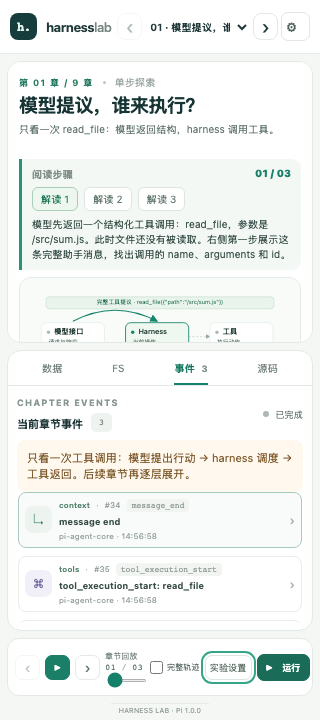
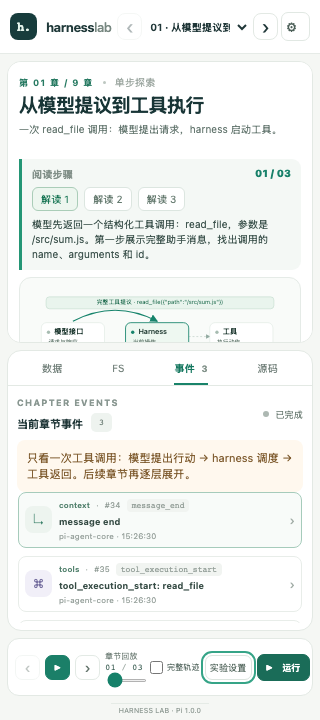
docs: simplify course and interface prose

diff --git a/src/content/chapters.ts b/src/content/chapters.ts
@@ -13,12 +13,12 @@ const raw = "https://raw.githubusercontent.com/earendil-works/pi/a13d35a742c6ef8
 export const chapters: Chapter[] = [
   {
     id: "overview",
-    title: "模型提议，谁来执行？",
-    subtitle: "只看一次 read_file：模型返回结构，harness 调用工具。",
+    title: "从模型提议到工具执行",
+    subtitle: "一次 read_file 调用：模型提出请求，harness 启动工具。",
     body: [
-      "模型先返回一个结构化工具调用：read_file，参数是 /src/sum.js。此时文件还没有被读取。右侧第一步展示这条完整助手消息，找出调用的 name、arguments 和 id。",
-      "harness 收到完整消息后，找到 read_file 实现并检查参数，再调度它执行。右侧第二步是实际工具启动事件，带着同一个 toolCallId。这里开始接触执行环境，模型接口没有直接读取文件。",
-      "工具从本站虚拟 FS 取得文件内容并返回。第三步展示真实返回值，后续章节再解释它如何进入下一轮请求。本章仅有这三步；模型回复由教学 provider 编排，Pi harness 与文件工具实际运行。"
+      "模型先返回一个结构化工具调用：read_file，参数是 /src/sum.js。第一步展示完整助手消息，找出调用的 name、arguments 和 id。",
+      "harness 收到消息后，找到 read_file 实现、检查参数并启动工具。第二步展示实际工具启动事件，其中带有同一个 toolCallId。",
+      "工具从本站虚拟 FS 读取文件并返回内容。第三步展示返回值；后续章节会说明它如何进入下一轮请求。模型回复由教学 provider 编排，Pi harness 与文件工具实际运行。"
     ],
     focus: ["provider", "harness", "tools"],
     checkpoints: ["哪一步只是提出调用，哪一步开始读取文件？", "找出贯穿调用与结果的 toolCallId。", "这次工具读取的是浏览器虚拟 FS 还是用户磁盘？"],
@@ -31,14 +31,14 @@ export const chapters: Chapter[] = [
   {
     id: "context",
     title: "本轮模型看见什么",
-    subtitle: "持有的历史、转换后的上下文、线上请求不是同一个对象。",
+    subtitle: "历史消息经过转换，才成为发送给模型的请求内容。",
     body: [
-      "修复 sum.js 前，harness 可能把 system 指令、用户要求、先前助手消息、工具调用和工具结果都放进 transcript。Pi agent-loop 在每次请求前依次应用 transformContext（可选）、convertToLlm，再 normalizeContext；转换后的消息才交给 StreamFn。自定义 UI 消息可以被过滤或转换。",
-      "工具有两份不同身份：AgentContext.tools 是可执行实现；transcript system message 中的 toolsAdded/toolsRemoved 是对模型声明的工具接口。declareToolChanges 比较二者，在消息历史里记录声明变化。Provider adapter 再把归一化 transcript 序列化为某个 API 的请求格式。因此不要把 session 文件、Agent.state.messages、transform 后的消息、HTTP body 画成同一个共享列表。",
-      "transformContext 只是可配置钩子，代码注释给了裁剪旧消息示例，不代表 agent-core 自带自动裁剪、摘要或 compaction。Pi coding-agent 的会话/上下文策略属于更上层，具体触发和持久化应沿那一层单独核对。"
+      "修复 sum.js 前，harness 可能把 system 指令、用户要求、先前助手消息、工具调用和工具结果放进 transcript。Pi agent-loop 在每次请求前依次运行可选的 transformContext、convertToLlm 和 normalizeContext，再把转换后的消息交给 StreamFn。自定义 UI 消息可以被过滤或转换。",
+      "工具有两种身份：AgentContext.tools 保存可执行实现；transcript system message 中的 toolsAdded/toolsRemoved 记录发给模型的工具接口。declareToolChanges 比较两者，并在消息历史中记录声明变化。Provider adapter 随后把归一化 transcript 序列化为 API 请求。session 文件保存会话记录，Agent.state.messages 保存当前消息，转换步骤生成模型输入，adapter 再生成 HTTP body。",
+      "transformContext 是可配置钩子，代码注释以裁剪旧消息为例。agent-core 没有内置自动裁剪、摘要或 compaction。Pi coding-agent 在更上层实现会话与上下文策略，触发条件和持久化逻辑需检查对应代码。"
     ],
     focus: ["context", "provider", "harness", "session"],
-    checkpoints: ["按顺序说出 transformContext、convertToLlm、provider adapter。", "区分模型可见工具声明与 harness 可执行工具。", "为什么看到 state.messages 不足以证明请求 body 一模一样？"],
+    checkpoints: ["按顺序说出 transformContext、convertToLlm、provider adapter。", "区分模型可见工具声明与 harness 可执行工具。", "state.messages 经过哪些步骤才成为 HTTP body？"],
     sources: [
       { label: "Pi agent-loop.ts：请求边界", url: `${raw}/packages/agent/src/agent-loop.ts` },
       { label: "Pi types.ts：AgentMessage、AgentContext 与钩子契约", url: `${raw}/packages/agent/src/types.ts` },
@@ -48,15 +48,15 @@ export const chapters: Chapter[] = [
   },
   {
     id: "streaming",
-    title: "Streaming：增量数据，不是可执行半成品",
-    subtitle: "provider 字节、协议事件、Pi 事件、完整消息有不同边界。",
+    title: "Streaming：从增量事件到完整消息",
+    subtitle: "响应字节怎样解析成事件，再组成消息。",
     body: [
-      "流式回复先到的是增量。Pi agent-core 的 message_start/message_update/message_end 表达统一后的助手消息生命周期；内部 AssistantMessageEvent 还可区分 text_delta、thinking_delta、toolcall_delta 等。event.partial 是当时的部分消息，不应误当成已校验、可执行的最终调用。",
-      "以修复示例为例：toolCall 的 arguments 在流期间可能尚未收齐 JSON。agent-loop 等 provider 流结束并取得最终助手消息后，才筛选其 toolCall 内容并进入执行路径。Responses adapter 也会累积 function-call 参数，并要求 output_item.done 完成；若终止事件到达时调用仍有未完成缓冲，它报错而不把半截调用交给 harness。",
-      "协议帧边界不是网络 packet，也不保证一帧对应一个模型 token。展示 fetch 可读块、SSE event/data 和 Pi 归一化事件时，分层标注来源。截断（stopReason=length）尤其危险：本版本会把该助手消息中的工具调用全部变成错误结果，不执行可能不完整的参数。"
+      "流式回复以增量到达。Pi agent-core 的 message_start/message_update/message_end 表达统一后的助手消息生命周期；AssistantMessageEvent 还区分 text_delta、thinking_delta、toolcall_delta 等事件。event.partial 表示当前部分消息，最终调用要等消息完成并经过后续处理。",
+      "修复示例中的 toolCall arguments 可能还没收齐 JSON。agent-loop 等 provider 流结束、取得最终助手消息后，才筛选 toolCall 并进入执行路径。Responses adapter 会累积 function-call 参数，并等待 output_item.done；终止事件到达时若调用仍有未完成缓冲，adapter 会报错。",
+      "SSE 帧按 event/data 格式划分，fetch 每次读取的片段可能包含部分或多个帧。帧数与模型 token 数量没有固定对应关系，图中分别展示读取片段、协议事件和 Pi 事件。若 stopReason=length，本版本会把该助手消息中的工具调用转成错误结果，不执行可能不完整的参数。"
     ],
     focus: ["provider", "parser", "harness", "tools"],
-    checkpoints: ["区分原始 provider stream event 与 Pi AssistantMessageEvent。", "为什么不可收到一段看似合法的 JSON 就直接执行？", "Pi 收到 length 且消息含工具调用时如何处理？"],
+    checkpoints: ["区分原始 provider stream event 与 Pi AssistantMessageEvent。", "工具调用执行前还要完成哪些步骤？", "Pi 收到 length 且消息含工具调用时如何处理？"],
     sources: [
       { label: "Pi types.ts：统一事件和消息类型", url: `${raw}/packages/ai/src/types.ts` },
       { label: "Pi agent-loop.ts：增量事件归并与 length 分支", url: `${raw}/packages/agent/src/agent-loop.ts` },
@@ -68,11 +68,11 @@ export const chapters: Chapter[] = [
   {
     id: "tools",
     title: "Tool lifecycle：请求、校验、执行、回填",
-    subtitle: "工具调用是一条带身份和检查点的控制流，不是一段代码文本。",
+    subtitle: "工具调用沿着校验、执行和回填的控制流运行。",
     body: [
-      "助手消息中的工具调用带 id、name、arguments。Pi 根据 name 查找当前可执行工具，找不到就生成 error tool result；找到后可先 prepareArguments，再按工具 schema 验证，随后调用 beforeToolCall。被阻止、参数无效、工具抛错都形成错误结果，而不是把无效调用默默当成功。",
-      "执行接口收到 toolCallId、已验证参数、AbortSignal 和可选进度回调。afterToolCall 可以改写结果；最终 tool_execution_end 是 UI/观察事件，toolResult message 才是回填到 transcript 的模型输入，带 toolCallId/toolName/content/isError。结构化 details 供 UI 或程序使用，不等价于发给模型的 content。",
-      "sum.js 场景的 edit 工具究竟改了哪个文件、如何落盘，是执行环境适配器负责的事实。Pi coding-agent 的 edit.ts 使用文件操作、路径解析和变更队列；本站可能采用隔离的虚拟 FS，不能把它描述成上游 core 或真实 OS 文件操作。权限策略也应显示为实际接入的 hook/扩展，而非模型自动拥有或自动拒绝的能力。"
+      "助手消息中的工具调用带有 id、name 和 arguments。Pi 根据 name 查找当前可执行工具；找不到时生成 error tool result。找到后可先运行 prepareArguments，再按工具 schema 验证，随后调用 beforeToolCall。拦截、参数无效或工具抛错都会形成错误结果。",
+      "执行接口收到 toolCallId、已验证参数、AbortSignal 和可选进度回调。afterToolCall 可以改写结果；最终 tool_execution_end 是 UI/观察事件，toolResult message 才是回填到 transcript 的模型输入，带 toolCallId/toolName/content/isError。模型读取 content，UI 和程序还可以使用 details 中的结构化数据。",
+      "本站的 write_file 工具通过已实现的虚拟 FS 修改 sum.js。Pi coding-agent 的 edit.ts 则使用文件操作、路径解析和变更队列。权限策略由接入的 hook 或扩展实现。"
     ],
     focus: ["tools", "harness", "workspace"],
     checkpoints: ["列出工具从模型提议到回填 transcript 的阶段。", "tool_execution_end 和 toolResult message 分别服务谁？", "无效参数是否会触达工具 execute？"],
@@ -86,11 +86,11 @@ export const chapters: Chapter[] = [
   {
     id: "loop",
     title: "循环、并发与何时结束",
-    subtitle: "一次助手回答是 turn；agent run 可以包含多轮。",
+    subtitle: "一次助手回答构成一个 turn；一次 agent run 可以包含多轮。",
     body: [
-      "runLoop 的内层流程在有工具调用或待注入 steering message 时继续。每个正常 provider 回答会成为助手消息；若工具批次没有要求终止，tool result 被追加后会开启下一次请求。无工具且无 steering 时会检查 follow-up；finishTurn 可结束，也可要求一次后续 continuation。error/aborted 是硬退出分支。",
-      "Pi 默认工具批次并行，但每个调用的参数准备与 beforeToolCall 先按助手原始顺序完成；可执行的任务随后并发。tool_execution_end 按执行完成先后发出，tool result message 按助手消息中的工具调用顺序生成。顺序模式则逐一准备、执行、收尾。不要把屏幕上事件到达顺序误画成结果消息顺序。",
-      "steering 在当前助手 turn 的工具执行之后注入，不会跳过该助手已经请求的工具；follow-up 在 agent 原本将停止时处理。Agent 持有队列、AbortController 和运行态，abort 是取消信号，不承诺撤销已完成的文件写入或外部副作用。本站的时间轴回退应恢复教学快照，不声称撤消真实操作。"
+      "runLoop 的内层流程会在存在工具调用或待注入 steering message 时继续。每个正常 provider 回答都会成为助手消息；工具批次完成且未要求终止时，系统追加 tool result 并发起下一次请求。没有工具调用和 steering message 时，流程检查 follow-up；finishTurn 可以结束 turn，也可以要求一次 continuation。error/aborted 会直接退出。",
+      "Pi 默认并行执行工具批次。每个调用的参数准备和 beforeToolCall 按助手消息中的顺序完成，之后并发执行。tool_execution_end 按完成先后发出，tool result message 则按工具调用原顺序生成。顺序模式会逐个完成准备、执行和收尾。",
+      "steering message 在当前助手 turn 的工具执行后注入；follow-up 在 agent 原本将停止时处理。Agent 持有队列、AbortController 和运行态。abort 会发送取消信号，但已完成的文件写入和外部副作用不会因此自动撤销。本站时间轴回退展示当时的文件快照，运行后的工作区保持原状态。"
     ],
     focus: ["harness", "tools", "user", "provider"],
     checkpoints: ["并行任务的结束事件顺序和模型看到结果的顺序有何区别？", "steering 与 follow-up 在何时注入？", "取消后能否假定已经写入的文件会回滚？"],
@@ -102,15 +102,15 @@ export const chapters: Chapter[] = [
   },
   {
     id: "workspace-session",
-    title: "工作空间与 session：运行环境不等于对话",
-    subtitle: "文件系统、进程和可恢复的 session 是不同资源。",
+    title: "工作空间与 session：文件和消息状态",
+    subtitle: "文件系统、进程和 session 各自保存不同状态。",
     body: [
-      "read sum.js 得到的内容是一次工具结果；编辑后的 sum.js 是执行环境状态；用户/助手/工具消息组成对话上下文。三者有关联但不共享同一生命周期。重置可视化状态不会自动逆转已发生的文件写入。",
-      "固定 Pi revision 的 agent-core 定义 AgentMessage、工具调用和内存态 Agent；其核心循环没有内建 OS workspace 或持久 session manager。上层 coding-agent 才定义 read/edit/bash 等工具，并在 SessionManager 中把 session entries 追加为 JSONL、按父子 ID 形成分支、投影成会话上下文。恢复 session 的消息历史不等于恢复当时进程、外部服务或文件系统快照。",
-      "本站的浏览器虚拟 FS、测试 Worker，以及学习进度保存属于教学实现，不是 Pi 上游行为。若课程模拟“恢复”，应说明保存了哪些对象以及哪些状态未保存；运行任意用户代码也不能仅凭‘在 Worker 里’就宣称是通用安全沙箱。"
+      "read sum.js 的内容是工具结果；编辑后的 sum.js 属于执行环境状态；用户、助手和工具消息组成对话上下文。它们通过工具调用关联，各自有独立生命周期。重置可视化状态不会逆转已经写入的文件。",
+      "固定 Pi revision 的 agent-core 定义 AgentMessage、工具调用和内存态 Agent，核心循环不含 OS workspace 或持久 session manager。上层 coding-agent 定义 read/edit/bash 等工具，并由 SessionManager 将 session entries 追加为 JSONL、按父子 ID 建立分支，再投影成会话上下文。恢复消息历史不会同时恢复进程、外部服务或文件系统快照。",
+      "本站保存课程位置、prompt、虚拟文件与非密钥设置，恢复时读取这些数据。运行事件需另行导出。测试 Worker 解析受限算术函数，不执行任意用户程序。"
     ],
     focus: ["workspace", "session", "tools", "context"],
-    checkpoints: ["分别指出消息历史、文件内容和进程状态由谁持有。", "JSONL session 能证明磁盘文件已回滚吗？", "哪些浏览器适配属于本站而非上游 Pi？"],
+    checkpoints: ["分别指出消息历史、文件内容和进程状态由谁持有。", "恢复 JSONL session 会恢复哪些状态？", "哪些浏览器适配属于本站，哪些来自上游 Pi？"],
     sources: [
       { label: "Pi agent-core types.ts：AgentContext / AgentState", url: `${raw}/packages/agent/src/types.ts` },
       { label: "Pi coding-agent session-manager.ts：JSONL 条目与上下文投影", url: `${raw}/packages/coding-agent/src/core/session-manager.ts` },
@@ -120,14 +120,14 @@ export const chapters: Chapter[] = [
   {
     id: "context-management",
     title: "Context management：保留、裁剪或摘要都有代价",
-    subtitle: "有 hook 不代表有内置压缩；摘要也不是无损历史。",
+    subtitle: "agent-core 提供转换 hook；coding-agent 实现 compaction。",
     body: [
-      "模型上下文是每次请求前选择、转换并序列化的输入，不必等于完整 session。transformContext 是 agent-core 的可选转换 hook；convertToLlm 还负责过滤/映射消息。代码提供了实现方裁剪历史的扩展点，却不证明 core 会监控 token 阈值或自行生成摘要。",
-      "Pi coding-agent 有独立的 compaction 实现：根据 token 使用估算与配置阈值准备截断点，避开孤立的工具结果，再生成摘要并保留一段近期历史；SessionManager 记录 compaction 边界。这会压缩细节并改变后续模型看到的历史。它属于 coding-agent 的功能，不能倒推为 agent-core 默认行为。",
-      "sum.js 实验可对照“完整工具轨迹”与“只留文件结论/测试摘要”的上下文，标出被删去的失败信息和调用参数。课程演示的 token 计数若用启发式应注明估算；模型报告 usage 才是 provider 返回的用量，二者不可混写。"
+      "模型上下文是在每次请求前选择、转换并序列化的输入。transformContext 是 agent-core 的可选转换 hook；convertToLlm 负责过滤和映射消息。实现方可以通过这些扩展点裁剪历史，agent-core 本身不监控 token 阈值，也不自动生成摘要。",
+      "Pi coding-agent 单独实现了 compaction：它根据 token 使用估算和配置阈值选择截断点，避开孤立的工具结果，生成摘要并保留一段近期历史；SessionManager 记录 compaction 边界。压缩会删减细节，改变后续模型看到的历史。这是 coding-agent 的功能。",
+      "当前实验对照工具结果回填前后的两份请求，观察增加的消息、参数和结果。compaction 的摘要与近期历史如何组合，可查看本章源码。启发式 token 计数应标为估算，usage 表示 provider 返回的用量。"
     ],
     focus: ["context", "session", "harness", "provider"],
-    checkpoints: ["transformContext 存在能证明哪些事，不能证明哪些事？", "为什么压缩需要保留工具调用与结果的关联？", "区分 token 估算、上次 usage 与 provider 当前返回 usage。"],
+    checkpoints: ["transformContext 能做什么？哪些行为需检查其他代码？", "为什么压缩需要保留工具调用与结果的关联？", "区分 token 估算、上次 usage 与 provider 当前返回 usage。"],
     sources: [
       { label: "Pi agent-core types.ts：transformContext 契约", url: `${raw}/packages/agent/src/types.ts` },
       { label: "Pi coding-agent compaction.ts：压缩策略与估算", url: `${raw}/packages/coding-agent/src/core/compaction/compaction.ts` },
@@ -137,12 +137,12 @@ export const chapters: Chapter[] = [
   },
   {
     id: "failures",
-    title: "失败分支：把错误送回正确的边界",
-    subtitle: "错误、截断、取消和权限阻止不是一种状态。",
+    title: "失败分支：参数、工具与接口错误",
+    subtitle: "错误、截断、取消和权限拦截走不同分支。",
     body: [
-      "让测试暴露 sum.js 的加减法错误后，模型可能返回无效参数、未知工具、工具运行失败或错误的修复。Pi 在参数验证前不会调用 execute；验证、beforeToolCall 或执行抛错会转成 isError tool result，通常仍可作为下一轮上下文，让模型据此调整。工具拒绝策略来自已配置的 hook/工具，而非通用 harness 自动生成的权限体系。",
-      "provider 的 stopReason=error 或 aborted 会使主循环结束；length 表示达到输出限制。此固定版本在 length 回复里即便解析出 toolCall，也会对调用生成失败结果、不执行它们，因为看似完整的参数也可能来自被截断的 JSON。解析错误与业务测试失败应分开标识。",
-      "并行批次中某一调用失败不会自动代表其他副作用已经撤销；停止信号也只影响尊重 signal 的执行路径。浏览器 CORS/网络错误、HTTP 错误响应和 provider SSE 中的失败事件属于不同层级。故障注入和重试轨迹若由本站编排，标为教学情景，并避免伪装成实际 API 请求。"
+      "测试暴露 sum.js 的加减法错误后，模型可能返回无效参数、未知工具、运行失败或错误修复。Pi 先验证参数，再调用 execute；验证、beforeToolCall 或执行抛错都会转成 isError tool result，通常会进入下一轮上下文供模型调整。工具拒绝策略由已配置的 hook 或工具实现。",
+      "provider 返回 stopReason=error 或 aborted 时，主循环结束；length 表示达到输出限制。此固定版本遇到 length 时，会为消息中的 toolCall 生成失败结果并跳过执行，因为参数可能是截断的 JSON。解析错误和业务测试失败应分别标识。",
+      "并行批次中，一个调用失败不会撤销其他调用已产生的副作用；停止信号只影响遵守 signal 的执行路径。浏览器 CORS/网络错误、HTTP 错误响应和 provider SSE 失败事件属于不同层级。本站编排的故障注入和重试轨迹应标为教学情景。"
     ],
     focus: ["harness", "parser", "tools", "provider"],
     checkpoints: ["坏参数在哪里拒绝？工具抛错如何回到对话？", "stopReason=length 时为什么不执行已出现的 tool call？", "哪些失败可以从 API 响应看到，哪些只能看到浏览器网络错误？"],
@@ -155,16 +155,16 @@ export const chapters: Chapter[] = [
   },
   {
     id: "api-lab",
-    title: "API 实验室：协议不同，语义映射也不同",
-    subtitle: "Chat Completions 与 Responses 不是只差一个 URL。",
+    title: "API 实验室：两种请求和响应格式",
+    subtitle: "Chat Completions 与 Responses 使用不同的请求和事件结构。",
     body: [
       "Pi 内部先把上下文整理成统一 transcript；adapter 再转换成各 API 的 wire format。Chat Completions 通常向 POST /chat/completions 发送 messages 数组，工具声明位于 tools；助手工具调用在 assistant.tool_calls 中，参数是 JSON 字符串。工具结果以 role=tool 的消息回传，并用 tool_call_id 对应调用。非流式返回是 completion 的 choices/message；流式则是带 choices[].delta 的 chat.completion.chunk，常以 data: [DONE] 结束。",
-      "Responses 向 POST /responses 发送 input（字符串或 items/messages），工具声明也放 tools，但调用输出是 function_call item，使用 call_id、name、arguments；工具结果是 function_call_output item，以 call_id 关联。非流式主体含 response id/status/output items；流式使用有类型的事件，如 response.created、response.output_item.added、response.function_call_arguments.delta、response.output_item.done、response.completed。不要把它压平成 Chat Completions 的 delta/message 结构。",
-      "两种协议都可能支持 streaming 和工具调用，但字段、结果归属、终止标记、增量事件不同。Pi 的两个 adapter 都做消息/工具转换并把 provider 事件归一化成 AssistantMessageEvent。官方文档描述的是服务端协议；本站模拟 transport 若直接返回预编排 Response 或 SSE，仅展示 adapter 的解析与 harness 行为，必须注明没有远程 HTTP 调用。",
-      "教学 API trace 应依次可检查：归一化 transcript → adapter request body → Response status/headers → 原始可读字节/SSE event → JSON/event parser → Pi 统一事件 → 最终消息与工具调用 ID → 工具结果回填 → 下一请求。浏览器可见的读取块不是网络 packet；API key、TLS 内部和未公开推理不属于可观察数据。实时 BYOK 应由用户主动发起；本章引用文档而不发送收费请求。"
+      "Responses 向 POST /responses 发送 input（字符串或 items/messages），工具声明也放在 tools。调用以 function_call item 输出，包含 call_id、name、arguments；工具结果是通过 call_id 关联的 function_call_output item。非流式主体含 response id/status/output items；流式使用有类型的事件，如 response.created、response.output_item.added、response.function_call_arguments.delta、response.output_item.done、response.completed。",
+      "两种协议都支持 streaming 和工具调用，但字段、结果归属、终止标记和增量事件各不相同。Pi 的两个 adapter 转换消息与工具，并将 provider 事件归一化为 AssistantMessageEvent。官方文档描述服务端协议；本站模拟 transport 直接返回预编排 Response 或 SSE，用来展示 adapter 解析和 harness 行为，不会发起远程 HTTP 调用。",
+      "教学 API trace 可依次检查：归一化 transcript → adapter request body → Response status/headers → 原始可读字节/SSE event → JSON/event parser → Pi 统一事件 → 最终消息与工具调用 ID → 工具结果回填 → 下一请求。trace 记录浏览器可读的响应片段和解析结果，API key 始终隐藏；TLS 内部和未公开的模型推理无法获取。实时 BYOK 由用户主动发起；本章只引用文档，不发送收费请求。"
     ],
     focus: ["provider", "parser", "context", "tools", "harness"],
-    checkpoints: ["两种协议分别在哪里携带工具结果？关联键是什么？", "Chat stream chunk 与 Responses SSE event 在结构上有什么不同？", "本地模拟 Response 能否证明访问过 OpenAI？为什么？"],
+    checkpoints: ["两种协议分别在哪里携带工具结果？关联键是什么？", "Chat stream chunk 与 Responses SSE event 在结构上有什么不同？", "沿请求记录判断当前使用的是本地模拟还是远程 provider。"],
     sources: [
       { label: "Pi OpenAI Completions adapter", url: `${raw}/packages/ai/src/api/openai-completions.ts` },
       { label: "Pi OpenAI Responses adapter", url: `${raw}/packages/ai/src/api/openai-responses.ts` },

diff --git a/src/App.svelte b/src/App.svelte
@@ -197,16 +197,16 @@
     {#if showExercise}<div class="modal-scrim" role="presentation" onclick={(event)=>{if(event.target===event.currentTarget)showExercise=false;}}><div class="exercise-modal" role="dialog" tabindex="-1" aria-modal="true" aria-labelledby="exercise-title"><div class="exercise-head"><div><span class="eyebrow">EXPERIMENT</span><h2 id="exercise-title">实验设置</h2></div><button class="close-button" onclick={()=>showExercise=false} aria-label="关闭">×</button></div><label class="field-label" for="prompt">用户消息</label><textarea id="prompt" class="prompt-input" bind:value={prompt} rows="3"></textarea>{#if demoFixtureNote}<div class="fixture-note"><b>教学夹具与输入不匹配</b><span>本地 provider 仅支持预设任务；自由探索请切换自己的 API。</span></div>{/if}<div class="file-edit-head"><span>初始文件 <code>/src/sum.js</code></span><span>虚拟工作区 · 可编辑</span></div><textarea class="code-editor" aria-label="编辑初始 sum.js" bind:value={fileEdit} spellcheck="false"></textarea><div class="exercise-actions"><button class="secondary-button" onclick={saveWorkspace}>保存工作区</button><button class="secondary-button" onclick={restoreWorkspace}>恢复工作区</button><button class="primary-button" onclick={()=>{showExercise=false;start();}} disabled={status==='running'}>运行实验</button></div>{#if savedNotice}<p class="saved-notice">{savedNotice}</p>{/if}</div></div>{/if}
   {:else}
     <main class="settings-page">
-      <div class="settings-intro"><span class="eyebrow">WORKSPACE PREFERENCES</span><h1>运行设置<span>与 API</span></h1><p>配置实验运行方式。密钥默认只驻留在当前页面内存中，不会自动保存或发送。</p></div>
-      <div class="settings-grid"><section class="settings-card"><div class="setting-title"><span class="setting-index">01</span><div><h2>运行模式</h2><p>选择教学模拟或连接兼容 API。</p></div></div><label class="setting-label">运行模式<select data-testid="mode-select" bind:value={settings.mode}><option value="demo">本地模拟 · 仅用本地教学夹具</option><option value="live">真实 API · 确认后发送请求</option></select></label><label class="setting-label">故障情景<select data-testid="scenario-select" bind:value={settings.scenario}><option value="repair">正常修复</option><option value="invalid-args">无效工具参数</option><option value="provider-error">Provider 错误</option><option value="failed-test">测试未通过</option></select></label><label class="setting-label">工具调度<select bind:value={settings.toolExecution}><option value="sequential">顺序执行</option><option value="parallel">并行执行</option></select></label><label class="setting-label">事件延迟 <span>{settings.delayMs} ms</span><input type="range" min="0" max="1800" step="100" bind:value={settings.delayMs} /></label></section>
+      <div class="settings-intro"><span class="eyebrow">WORKSPACE PREFERENCES</span><h1>运行设置<span>与 API</span></h1><p>填写模型接口。密钥默认保存在当前页面内存中。</p></div>
+      <div class="settings-grid"><section class="settings-card"><div class="setting-title"><span class="setting-index">01</span><div><h2>运行模式</h2><p>选择教学模拟或连接兼容 API。</p></div></div><label class="setting-label">运行模式<select data-testid="mode-select" bind:value={settings.mode}><option value="demo">本地模拟 · 预设教学场景</option><option value="live">真实 API · 确认后发送请求</option></select></label><label class="setting-label">故障情景<select data-testid="scenario-select" bind:value={settings.scenario}><option value="repair">正常修复</option><option value="invalid-args">无效工具参数</option><option value="provider-error">Provider 错误</option><option value="failed-test">测试未通过</option></select></label><label class="setting-label">工具调度<select bind:value={settings.toolExecution}><option value="sequential">顺序执行</option><option value="parallel">并行执行</option></select></label><label class="setting-label">事件延迟 <span>{settings.delayMs} ms</span><input type="range" min="0" max="1800" step="100" bind:value={settings.delayMs} /></label></section>
       <section class="settings-card"><div class="setting-title"><span class="setting-index">02</span><div><h2>Provider / API</h2><p>兼容 OpenAI 风格接口的服务地址。</p></div></div><div class="field-row"><label class="setting-label">协议<select data-testid="protocol-select" bind:value={settings.protocol}><option value="chat">Chat Completions</option><option value="responses">Responses</option></select></label><label class="setting-label">模型<input bind:value={settings.model} placeholder="模型 ID" /></label></div><label class="setting-label">Base URL<input bind:value={settings.baseUrl} placeholder="https://api.openai.com/v1" /></label><label class="setting-label">API Key <span>默认仅内存</span><input type="password" bind:value={settings.apiKey} autocomplete="off" placeholder="sk-••••••••••••" /></label><div class="key-actions"><button class="secondary-button" onclick={rememberKey} disabled={!settings.apiKey}>记住密钥</button><button class="text-button" onclick={clearKey}>清除密钥</button><span>浏览器本地存储并非加密保险库。</span></div><div class="endpoint-box"><span>最终请求端点</span><code>{endpoint}</code><span class="endpoint-method">POST</span></div>{#if settings.mode==='live'}<div class="warning-box"><b>发送前请确认</b><span>真实模式不会自动请求。你每次点击运行后都会再次看到数据与费用提示。提示：API key 将用于授权，请只连接你信任的服务。</span></div>{/if}</section>
       <section class="settings-card scenario-card api-explorer"><div class="setting-title"><span class="setting-index">04</span><div><h2>API 实验室</h2><p>单次请求看懂接口格式；完整 agent 运行使用 Pi 流式 adapter。</p></div></div><label class="setting-label">响应方式<select data-testid="api-stream-select" bind:value={apiStreaming}><option value={true}>流式 SSE</option><option value={false}>非流式 JSON</option></select></label><p class="privacy-foot">Chat Completions 使用 messages 和嵌套 function 工具；Responses 使用 input 和顶层 function 字段。此实验只观察 API 响应，不执行工具。模拟用量与延迟为教学设定。</p><details open><summary>实际将发送的请求体</summary><pre class="api-code">{apiPreview}</pre></details><div class="settings-actions"><button data-testid="api-test-button" class="primary-button" onclick={startApiTest} disabled={status==='running'}>测试单次 API</button>{#if status==='running'}<button class="secondary-button" onclick={cancel}>停止</button>{/if}<button class="secondary-button" onclick={()=>page='learn'}>在时间轴查看响应</button></div>{#if apiOutcome}<p class="saved-notice">{apiOutcome}</p>{/if}</section>
-      <section class="settings-card scenario-card"><div class="setting-title"><span class="setting-index">03</span><div><h2>工作区与导出</h2><p>工作区内容仅保存在本机浏览器；不等同于可恢复的运行计划。</p></div></div><div class="storage-note"><span class="storage-icon">▤</span><div><b>本地浏览器存储</b><p>保存课程位置、prompt、虚拟文件与非密钥设置。运行事件不会作为工作区自动保存。</p></div></div><div class="settings-actions"><button class="secondary-button" onclick={saveWorkspace}>保存工作区</button><button class="secondary-button" onclick={restoreWorkspace}>恢复工作区</button><button class="text-button" onclick={exportTrace} disabled={!events.length}>导出 trace</button><button class="text-button" onclick={exportFiles}>导出本地文件</button></div>{#if savedNotice}<div class="saved-notice">✓ {savedNotice}</div>{/if}<p class="privacy-foot">trace 导出包含当前实际运行事件，不含设置或 API key。文件内容只有在点击“导出本地文件”时才会导出。</p></section></div>
+      <section class="settings-card scenario-card"><div class="setting-title"><span class="setting-index">03</span><div><h2>工作区与导出</h2><p>工作区保存在此浏览器，包含实验输入、文件和课程位置。</p></div></div><div class="storage-note"><span class="storage-icon">▤</span><div><b>本地浏览器存储</b><p>保存课程位置、prompt、虚拟文件和非密钥设置。运行记录请另行导出 trace。</p></div></div><div class="settings-actions"><button class="secondary-button" onclick={saveWorkspace}>保存工作区</button><button class="secondary-button" onclick={restoreWorkspace}>恢复工作区</button><button class="text-button" onclick={exportTrace} disabled={!events.length}>导出 trace</button><button class="text-button" onclick={exportFiles}>导出本地文件</button></div>{#if savedNotice}<div class="saved-notice">✓ {savedNotice}</div>{/if}<p class="privacy-foot">trace 导出包含当前实际运行事件，不含设置或 API key。点击“导出本地文件”可下载所选时刻的文件快照。</p></section></div>
     </main>
   {/if}
 
   {#if showConfirm}<div class="modal-scrim" role="presentation"><div class="confirm-modal" role="dialog" aria-modal="true" aria-labelledby="confirm-title" tabindex="-1"><div class="confirm-icon">!</div><span class="eyebrow">REAL PROVIDER REQUEST</span><h2 id="confirm-title">确认发送 API 请求？</h2><p>请求将发送到以下端点。prompt 与虚拟工作区文件可能包含在请求上下文中。真实 API 可能产生费用。</p><div class="confirm-endpoint"><span>POST</span><code>{endpoint}</code></div><div class="confirm-model"><span>模型</span><b>{settings.model || '未设置'}</b><span class="redact">API Key 将用于授权，不会进入导出 trace。</span></div><div class="modal-actions"><button class="secondary-button" onclick={() => showConfirm=false}>取消</button><button class="danger-button" onclick={()=>confirmAction==='api'?runApiTest():run()}>我了解，发送请求</button></div></div></div>{/if}
-  <footer class="app-footer"><span>HARNESS LAB · Pi 1.0.0</span><span>模型响应可模拟，harness 与工具实际运行；单次 API 实验只观察接口。</span></footer>
+  <footer class="app-footer"><span>HARNESS LAB · Pi 1.0.0</span><span>默认模型响应来自预设脚本，harness 和工具在浏览器中运行。</span></footer>
 </div>
 <style>
 .explanation-nav{display:flex;gap:6px;margin:10px 0}.explanation-nav button{border:1px solid #dce6e0;border-radius:6px;background:#fff;padding:5px 10px;font-size:11px;color:#667b70;cursor:pointer}.explanation-nav button.active{background:#edf6ef;color:#167553;border-color:#aacdb8}.api-code{max-height:360px;overflow:auto;white-space:pre-wrap;overflow-wrap:anywhere;background:#f4f7f5;border:1px solid #e1e9e5;border-radius:10px;padding:18px;font:12px/1.6 ui-monospace,SFMono-Regular,monospace;color:#27463f}.api-explorer summary{cursor:pointer;font-size:13px;color:#35675b;margin:16px 0}.api-explorer .settings-actions{margin-top:16px}

diff --git a/src/lib/components/Inspector.svelte b/src/lib/components/Inspector.svelte
@@ -56,7 +56,7 @@
     <button class:active={tab==='diff'} role="tab" aria-selected={tab==='diff'} onclick={() => tab='diff'}>Diff</button>
     <button class:active={tab==='source'} role="tab" aria-selected={tab==='source'} onclick={() => tab='source'}>源码</button>
   </div>{/if}
-  {#if !event}<div class="inspector-empty"><span>⌁</span><b>选择一条运行事件</b><p>检查器会跟随所选时间点更新。未发生的文件状态不会提前显示。</p></div>
+  {#if !event}<div class="inspector-empty"><span>⌁</span><b>选择一条运行事件</b><p>选择事件后，可以查看当时的数据和文件快照。</p></div>
   {:else if tab==='summary'}
     <div class="inspector-content"><div class="event-summary"><span class="summary-kind">{event.kind}</span><h3>{event.title}</h3><p>{event.lane} 通道 · 序号 {event.seq}</p></div><div class="inspect-section"><span class="eyebrow">事件信息</span><dl><div><dt>事件 ID</dt><dd>{event.id}</dd></div><div><dt>通道</dt><dd>{event.lane}</dd></div><div><dt>时间</dt><dd>{new Date(event.at).toLocaleTimeString('zh-CN')}</dd></div><div><dt>来源</dt><dd>{sourceRef?.label ?? event.source ?? '运行时事件'}</dd></div></dl></div><div class="inspect-section"><span class="eyebrow">数据摘要</span><pre class="data-preview">{JSON.stringify(event.data, null, 2)}</pre></div></div>
   {:else if tab==='json'}
@@ -66,7 +66,7 @@
   {:else if tab==='diff'}
     <div class="inspector-content"><div class="inspect-kicker">与前一状态逐行比较 · {selectedFile}</div>{#if fileNames().length}<div class="file-picker">{#each fileNames() as filename}<button class:chosen={selectedFile===filename} onclick={() => selectedFile=filename}>{filename}</button>{/each}</div><div class="diff-view" aria-label="文件差异">{#each diffLines(before,after) as line}<div class:added={line.kind==='added'} class:removed={line.kind==='removed'} class="diff-line"><span>{line.kind==='added'?'+':line.kind==='removed'?'-':' '}</span><code>{line.text || ' '}</code></div>{/each}</div><div class="diff-legend"><span class="removed-text">− before</span><span class="added-text">+ after</span></div>{:else}<div class="mini-empty">该事件未携带文件快照。</div>{/if}</div>
   {:else}
-    <div class="inspector-content"><div class="inspect-kicker">固定版本源码定位</div>{#if sourceRef}{#if sourceRef.url}<a class="source-ref" href={sourceRef.url} target="_blank" rel="noreferrer">↗ {sourceRef.label}</a>{:else}<div class="source-ref">{sourceRef.label}</div>{/if}<p class="source-pin">{#if sourceRef.url}Pi 仓库固定提交 <code>{sourceCommit.slice(0,12)}</code> · 路径按事件来源映射{:else}本站实现说明 · 本地运行时源码不作为可点击外链{/if}</p><pre class="source-note">源码仅作为定位链接；事件内容按纯文本显示，不会动态加载或执行。</pre>{:else}<div class="mini-empty">此事件没有源码引用。</div>{/if}</div>
+    <div class="inspector-content"><div class="inspect-kicker">固定版本源码定位</div>{#if sourceRef}{#if sourceRef.url}<a class="source-ref" href={sourceRef.url} target="_blank" rel="noreferrer">↗ {sourceRef.label}</a>{:else}<div class="source-ref">{sourceRef.label}</div>{/if}<p class="source-pin">{#if sourceRef.url}Pi 仓库固定提交 <code>{sourceCommit.slice(0,12)}</code> · 路径按事件来源映射{:else}本站实现 · 源码位于仓库 src/lib 目录{/if}</p><pre class="source-note">链接指向事件对应的源码版本。事件内容以文本显示。</pre>{:else}<div class="mini-empty">此事件没有源码引用。</div>{/if}</div>
   {/if}
   <div class="inspector-foot"><span><i></i> 事件快照</span><span>{event ? '已同步' : '无数据'}</span></div>
 </div>

diff --git a/src/lib/chapter-projection.ts b/src/lib/chapter-projection.ts
@@ -27,7 +27,7 @@ export function projectChapter(chapterId:string,all:TraceEvent[]):ChapterProject
    const raw=all.filter(e=>inFirstResponse(e)&&e.kind==='sse-frame');
    const parsed=all.filter(e=>inFirstResponse(e)&&e.kind==='stream_event');
    add(raw[0]);add(raw[1]);add(parsed[0]);add(parsed.find(e=>JSON.stringify(e.data).includes('arguments')));add(parsed.at(-1));add(call);
-   note='选取第一条工具调用响应的读取片段、解析事件和完整消息；不是整轮日志，也不把读取片段当 token。';break;
+   note='本章展示第一条工具调用的响应片段、解析事件和最终消息。每个读取片段可能包含一个 SSE 帧的部分内容或多个帧。';break;
   }
   case 'tools':{
    const writeCall=first(e=>assistantCall(e,'write_file')) ?? call;
@@ -40,10 +40,10 @@ export function projectChapter(chapterId:string,all:TraceEvent[]):ChapterProject
   }
   case 'loop':
    add(firstSerialized);add(call);add(firstToolEnd);add(first(e=>e.kind==='turn_end'));add(nextSerialized);
-   note='只看一次循环边界：工具结果怎样进入下一轮请求。';break;
+   note='跟随一次循环，查看工具结果怎样进入下一轮请求。';break;
   case 'workspace-session':
    add(first(e=>e.kind==='workspace_init'));add(first(e=>e.kind==='read'));add(first(e=>e.kind==='write'));add(first(e=>e.kind==='test'));
-   note='对照同一文件的读写快照。这里展示本站虚拟 FS，不冒充上游 session 恢复。';break;
+   note='对照同一文件读写前后的快照。文件保存在浏览器虚拟 FS 中；上游 session 恢复机制见本章源码说明。';break;
   case 'context-management':
    add(firstSerialized);add(nextSerialized);
    note='对比工具结果加入前后的两份真实请求。当前未执行上游 compaction；压缩算法只在源码说明中解读。';break;
@@ -52,7 +52,7 @@ export function projectChapter(chapterId:string,all:TraceEvent[]):ChapterProject
    if(!chosen.length)note='当前运行没有失败事件。可在实验中选择无效参数、Provider 错误或测试未通过，再观察对应边界。';break;
   case 'api-lab':
    add(firstSerialized);add(firstRequest);add(first(e=>e.kind==='response'));add(first(e=>e.kind==='sse-frame'));add(first(e=>e.kind==='api_test_result'));
-   note='只展示接口边界；单次 JSON/SSE 实验可从设置页发起。';break;
+   note='查看请求体和接口响应。设置页提供单次 JSON/SSE 实验。';break;
   default:note='此章节没有可用的事件投影。';
  }
  chosen.sort((a,b)=>a.seq-b.seq);

diff --git a/src/lib/components/SystemMap.svelte b/src/lib/components/SystemMap.svelte
@@ -43,7 +43,7 @@
       {#if visibleFlow.from!==visibleFlow.to}<path class="flow-link" d={`M${from.x} 59 Q${(from.x+to.x)/2} 13 ${to.x} 59`} marker-end="url(#chapter-flow)"/>{/if}
     {/if}
     {#if selected}
-      <g class="flow-tag" transform={`translate(${width/2},20)`}><title>{flow?.operation??selected.kind} · {payload(selected)}</title><rect x="-238" y="-12" width="476" height="25" rx="7"/><text text-anchor="middle" y="4">{flow?.operation??'查看真实事件'} · {payload(selected).slice(0,43)}</text></g>
+      <g class="flow-tag" transform={`translate(${width/2},20)`}><title>{flow?.operation??selected.kind} · {payload(selected)}</title><rect x="-238" y="-12" width="476" height="25" rx="7"/><text text-anchor="middle" y="4">{flow?.operation??'查看事件'} · {payload(selected).slice(0,43)}</text></g>
     {/if}
     {#each nodes as node}
       <g role="button" tabindex="0" aria-label={`选择 ${node.label} 最近的已发生事件`} class:current={activeLane===node.id} class:visited={!!latest(node.id)} class="map-node" transform={`translate(${node.x},${node.y})`} onclick={()=>selectLane(node.id)} onkeydown={(e)=>{if(e.key==='Enter'||e.key===' '){e.preventDefault();selectLane(node.id);}}}>
@@ -52,7 +52,7 @@
     {/each}
     <text class="caption" x="32" y="151">只展开本章相关参与者 · 实线对应操作，虚线表示结构关系</text>
   </svg>
-  {#if selected?.kind==='sse-frame'}<p>这是响应读取片段，可能含半个或多个 SSE 帧，不代表 token。</p>{/if}
+  {#if selected?.kind==='sse-frame'}<p>fetch 每次读取的响应片段可包含部分 SSE 帧，也可包含多个帧。</p>{/if}
 </div>
 <style>
 .system-map{width:100%;min-width:0}.system-map svg{display:block;width:100%;height:auto}.map-link{stroke:#b9cbc2;stroke-width:1.3;stroke-dasharray:4 4;fill:none}.flow-link{stroke:#16836b;stroke-width:2.4;fill:none}.map-node{cursor:pointer;outline:none}.map-node rect{fill:#fff;stroke:#d6e3dc}.map-node circle{fill:#a7bcb1}.map-node text{font:600 15px system-ui,sans-serif;fill:#243e36}.map-node .node-state{font:12px system-ui,sans-serif;fill:#7a8d83}.map-node.visited rect{stroke:#94beaa}.map-node.current rect{fill:#eef8f1;stroke:#16836b;stroke-width:1.8}.map-node.current circle{fill:#16836b}.map-node:focus rect{stroke:#4d71bf;stroke-width:2}.flow-tag rect{fill:#e9f4ed;stroke:#b7d5c3}.flow-tag text{font:12px system-ui,sans-serif;fill:#216d50}.caption{font:11px system-ui,sans-serif;fill:#7c9085}.system-map p{font-size:11px;color:#7c9085;margin:0 12px}

diff --git a/src/content/chapters.test.ts b/src/content/chapters.test.ts
@@ -17,6 +17,9 @@ describe('curriculum evidence contracts',()=>{
     for(const source of sources.filter(s=>s.url.includes('earendil-works/pi'))){
       expect(source.url).toContain('a13d35a742c6ef8462812a28fbe1d8c8b7431c32');
     }
-    expect(chapters[0].body.join(' ')).toContain('本章仅有这三步');
+    expect(chapters[0].body).toHaveLength(3);
+    expect(chapters[0].body[0]).toContain('read_file');
+    expect(chapters[0].body[1]).toContain('toolCallId');
+    expect(chapters[0].body[2]).toContain('返回');
   });
 });

diff --git a/evidence/REFERENCE.md b/evidence/REFERENCE.md
@@ -3,9 +3,9 @@
 ## 定版与范围
 
 - 依据已确认的学习站设计。主场景是修复 JS `sum` 缺陷；课程分为全景、上下文、streaming、tools、loop、workspace/session、context management、failure、API lab 九章。
-- 实际依赖为 `@earendil-works/pi-agent-core@1.0.0` 与 `@earendil-works/pi-ai@1.0.0`。本工作区 `node_modules` 的 package metadata 确认包名、版本及源码仓库目录（`packages/agent`、`packages/ai`）；lockfile 指向 npm registry tarball。按安装时提供的 npm `gitHead`，本文件及课程引用固定至 `a13d35a742c6ef8462812a28fbe1d8c8b7431c32`，不再使用计划初查 SHA `a276dabe57911253350bffb93cb7d7aff6a73261`。
-- 当前 node_modules 仅有发布后的 dist；package metadata 未带 `gitHead`，lockfile 的 resolved URL 是 registry tarball。因此 lockfile 本身不能独立证明 tarball 与某 commit 的逐字节等价。本次按提供的 gitHead 定位并核对该 revision 下的原始源码链接；未比较 tarball 构建产物与源码。
-- 本文件记录源码/官方文档核对；后续运行验证见 [VERIFICATION.md](VERIFICATION.md)，不包含真实模型调用或完整 API 符合性认证。所有上游源码链接均不可变固定到 `a13d35a742c6ef8462812a28fbe1d8c8b7431c32`；行号只对应此版本。
+- 实际依赖为 `@earendil-works/pi-agent-core@1.0.0` 与 `@earendil-works/pi-ai@1.0.0`。本工作区 `node_modules` 的 package metadata 确认包名、版本和源码仓库目录（`packages/agent`、`packages/ai`）；lockfile 指向 npm registry tarball。根据安装时提供的 npm `gitHead`，本文及课程引用固定到 `a13d35a742c6ef8462812a28fbe1d8c8b7431c32`，而非计划初查的 SHA `a276dabe57911253350bffb93cb7d7aff6a73261`。
+- 当前 `node_modules` 只含发布后的 dist；metadata 未带 `gitHead`，lockfile 的 resolved URL 指向 registry tarball。因此 lockfile 不能单独证明 tarball 与某个 commit 逐字节等价。本次依据 npm 提供的 `gitHead` 定位并核对该 revision 的原始源码链接，未比较 tarball 构建产物与源码。
+- 本文件记录源码和官方文档核对；运行验证见 [VERIFICATION.md](VERIFICATION.md)。未进行真实模型调用或完整 API 符合性认证。上游源码链接固定到 `a13d35a742c6ef8462812a28fbe1d8c8b7431c32`，行号对应此版本。
 
 ## 固定 revision 符号映射
 
@@ -37,8 +37,8 @@
 - **上游 agent-core**：内存态 Agent、AgentMessage/事件、请求前 `transformContext`/`convertToLlm` seam、工具校验/hook/调度、steering/follow-up、abort。
 - **上游 pi-ai**：provider 统一类型、transcript 转换、Chat Completions / Responses 两类 adapter 和流解析。
 - **上游 coding-agent（高层包，不等同 core）**：read/edit/bash、工作目录文件操作、JSONL session/分支投影、compaction。
-- **本站教学实现**：sum 示例项目、脚本模型、浏览器虚拟 FS、Worker、快照/回放 UI、模拟 API 与故障注入。若用本地 fetch-compatible Response/SSE，只是本地回放，不代表访问远程 endpoint、发生真实网络传输或模型推理。
-- **验证边界**：真实 Pi 包、本站工具与生产浏览器路径已测试；mock fetch 覆盖授权和禁止重定向。未把 npm tarball 与源码逐字节比对，未发真实付费模型/API 请求，未验证第三方 CORS、实际认证或费用。上游 session/compaction 与多工具并发的完整交互演示未实现。没有声称观看模型内部推理；OpenAI 官方文档后续可能更新。
+- **本站教学实现**：sum 示例项目、脚本模型、浏览器虚拟 FS、Worker、快照/回放 UI、模拟 API 与故障注入。本地 transport 返回预设的 Response/SSE，供 adapter 解析和 harness 执行；远程请求由用户选择自己的 API 后发起。
+- **验证范围**：实际 Pi 包、本站工具和生产浏览器路径已测试；mock fetch 覆盖授权与禁止重定向。未逐字节比较 npm tarball 与源码，也未发送真实付费模型/API 请求，因此第三方 CORS、认证和费用行为尚未验证。产品未实现上游 session/compaction 与多工具并发的完整交互演示。课程展示可观察的事件和响应，不展示模型内部推理；OpenAI 官方文档可能更新。
 
 ## 章节文件
 

diff --git a/README.md b/README.md
@@ -1,8 +1,8 @@
 # Harness Lab
 
-一个纯静态、中文的 Agent harness 交互学习工作台。课程采用视口内双列布局：左侧讲当前机制并显示局部图解，右侧切换数据、虚拟 FS、事件和源码。章节通过顶部选择器切换，没有常驻目录。每章从同一份真实运行中选取相应事件，完整 trace 只在主动打开实验视图后展示。
+一个纯静态的中文 Agent harness 交互学习工作台。课程采用视口内双列布局：左侧讲解当前机制并显示局部图解，右侧查看数据、虚拟文件系统、事件与源码。章节通过顶部选择器切换，不设常驻目录。每章从同一次实际运行中选取相应事件；完整 trace 需主动打开实验视图查看。
 
-默认模型响应由浏览器内模拟 provider 编排，**Pi harness、provider adapter、工具校验与教学测试实际执行**。无 API key、无远程请求。自由探索可切换自己的兼容 API。
+默认响应来自浏览器内的模拟 provider；Pi harness、provider adapter、工具校验和教学测试均实际运行。默认模式不需要 API key，也不发送远程请求。自由探索时可改用自己的兼容 API。
 
 ![运行工作台](docs/screenshots/workbench.png)
 
@@ -29,13 +29,13 @@ npm run test:e2e
 
 ## Cloudflare Pages
 
-在 Pages 中选择静态站构建：
+Cloudflare Pages 构建设置：
 - 构建命令：`npm run build`
 - 输出目录：`dist`
 - Node.js：22.19 或更新版本
 - 无 Pages Functions、无后台代理、无服务器密钥环境变量。
 
-模型设置由访问者在浏览器填写。本站章节切换没有客户端 URL 路由，不需要自定义重写规则。尚未执行 CF Pages 部署；部署后的第三方 API CORS 需使用实际 Pages origin 验证。
+模型设置由访问者在浏览器填写。本站章节切换不使用客户端 URL 路由，无需自定义重写规则。Cloudflare Pages 尚未部署；部署后须通过实际 Pages origin 验证第三方 API 的 CORS。
 
 ## 可以学习什么
 
@@ -55,7 +55,7 @@ npm run test:e2e
 
 配置 base URL、model、协议与 API key。单次 API 实验支持 SSE / 非流式 JSON、实际请求预览和响应观测；它不执行工具。完整 agent 使用 Pi 的流式 adapter，并把每轮工具结果重新提交给模型。
 
-模拟 provider 支持正常修复、无效工具参数、provider 错误、真实失败测试。它不是通用模型，不理解任意任务；不匹配的请求明确失败。用量和延迟是模拟设定。
+模拟 provider 覆盖正常修复、无效工具参数、provider 错误和真实失败测试。它只处理这些教学场景，不支持任意任务；其他请求会明确失败。用量和延迟为模拟设定。
 
 真实 API：
 - 必须主动点击并确认费用与发送内容，不在页面打开时请求。
@@ -66,9 +66,9 @@ npm run test:e2e
 
 ## 执行边界
 
-虚拟文件系统完全在浏览器中，不读写用户磁盘。教学执行器是受限算术解释器：只支持形如 `export function sum(a, b) { return a + b; }` 的函数，运算符可为 `+ - * /`。它不使用 eval，也不是完整 JavaScript VM。Worker 用于隔离和终止，不宣称通用安全沙箱。
+虚拟文件系统只在浏览器中运行，不读写用户磁盘。教学执行器是受限算术解释器，只接受形如 `export function sum(a, b) { return a + b; }` 的函数，支持 `+ - * /` 运算符。执行器不调用 eval，也不支持完整 JavaScript；Worker 隔离并可终止执行，但不构成通用安全沙箱。
 
-本版没有 Python、通用终端、MCP、多 agent 执行器或上游 coding-agent session 恢复。相关章节明确区分源码机制与本站功能。
+本版不含 Python、通用终端、MCP、多 agent 执行器或上游 coding-agent session 恢复；相关章节分别说明上游源码机制和本站功能。
 
 ## 参照与证据
 

diff --git a/evidence/VERIFICATION.md b/evidence/VERIFICATION.md
@@ -24,12 +24,12 @@ The original 1280×800 page had document height 2064px. It now uses two viewport
 4. Returned messages and event file snapshots are scrubbed of the configured credential. Runtime tests cover user-message and file-snapshot echoes as well as exported trace coverage in the browser.
 5. A global `.workspace` layout selector also styled graph/legend elements bearing the workspace lane. Renamed the layout to `.workbench-layout`, keeping lane identities unchanged.
 
-## Honesty boundaries
+## Scope and limits
 
-- Provider model responses are authored fixtures. Protocols are consumed by the installed Pi adapters; the model itself is not real inference.
-- Test execution is a bounded arithmetic interpreter, not a complete JS engine. No eval or arbitrary program execution is exposed.
-- Mock-fetch tests verify live forwarding and authorization behavior, not compatibility or CORS of a third-party service.
-- Unexposed provider internals, network packets, token boundaries and private reasoning cannot be observed.
-- Session/compaction chapters explain fixed upstream source; this product does not run the complete coding-agent session/compaction implementation.
+- Provider responses are project-authored fixtures; installed Pi adapters handle the protocols, but no model inference occurs.
+- The teaching executor supports bounded arithmetic only; it does not run arbitrary JavaScript.
+- Mock-fetch tests cover live forwarding and authorization. Third-party compatibility and CORS remain untested.
+- Tests cannot observe provider internals, network packets, token boundaries, or private reasoning.
+- The session/compaction chapters explain a fixed upstream revision; this product does not run the complete coding-agent session/compaction implementation.
 
 Screenshots under `docs/screenshots/` come from production-browser acceptance runs, not design mockups. All 13 unique fixed-revision source paths used by the curriculum/inspector were checked with HTTP HEAD and returned 200.

diff --git a/THIRD_PARTY_NOTICES.md b/THIRD_PARTY_NOTICES.md
@@ -2,8 +2,8 @@
 
 Harness Lab uses the actual `@earendil-works/pi-agent-core` and `@earendil-works/pi-ai` packages, pinned to version **1.0.0** in the lockfile. Both packages declare the MIT license and their repository as [earendil-works/pi](https://github.com/earendil-works/pi).
 
-The published package's `gitHead` is `a13d35a742c6ef8462812a28fbe1d8c8b7431c32`. Source links for the implemented product should use this revision. The earlier design inspected revision `a276dabe57911253350bffb93cb7d7aff6a73261`; that is not the installed runtime revision.
+The published package's `gitHead` is `a13d35a742c6ef8462812a28fbe1d8c8b7431c32`. Source links for the implemented product should use this revision. The earlier design inspected revision `a276dabe57911253350bffb93cb7d7aff6a73261`. The installed packages use the published revision above.
 
-The simulated model responses and teaching filesystem are project-authored fixtures. They are not model-generated execution evidence. Runtime and browser acceptance results are documented separately after verification.
+The simulated responses and teaching filesystem are project-authored fixtures. The Pi runtime and tools execute these teaching scenarios in the browser. Runtime and browser acceptance results are in the verification record.
 
 See the upstream [license](https://github.com/earendil-works/pi/blob/a13d35a742c6ef8462812a28fbe1d8c8b7431c32/LICENSE) and [package source](https://github.com/earendil-works/pi/tree/a13d35a742c6ef8462812a28fbe1d8c8b7431c32/packages).
